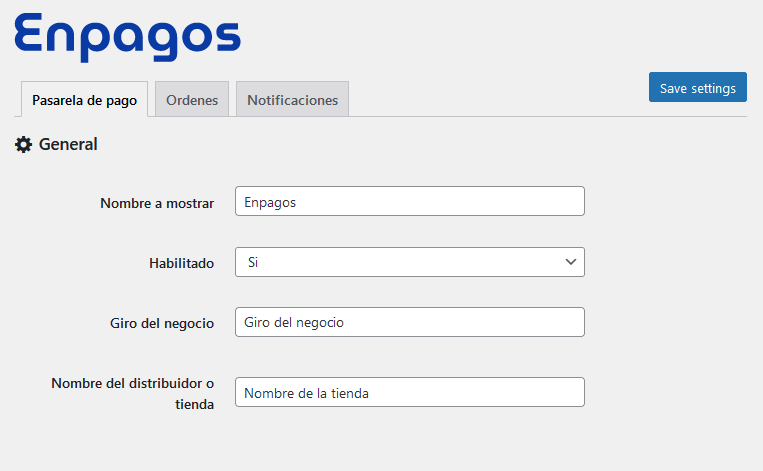
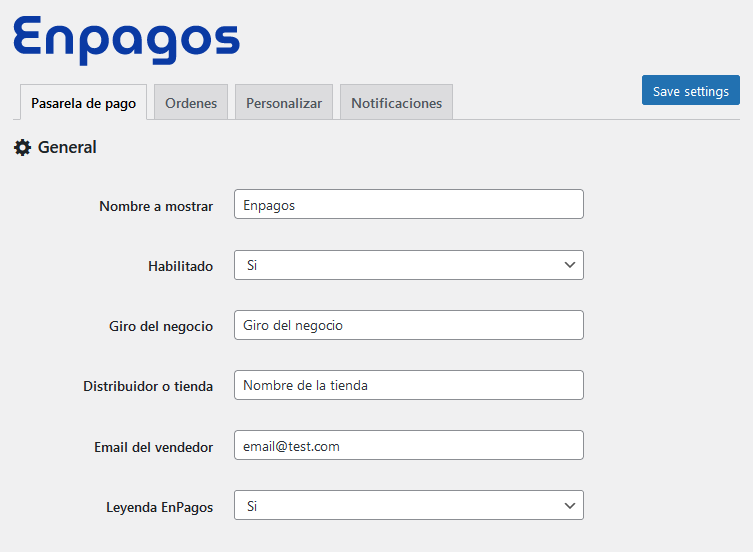
Update plugin configuration
- Add seller email
- Update documentation

diff --git a/src/includes/config-functions.php b/src/includes/config-functions.php
@@ -123,6 +123,16 @@ function dynamicore_config_page()
             ],
             [
                 'group' => 'general',
+                'label' => __('Email del vendedor', $dynamicore_plugin_name),
+                'name' => 'email_de_vendedor',
+                'type' => 'email',
+                'value' => get_option(
+                    "{$dynamicore_plugin_name}_email_de_vendedor",
+                    ''
+                ),
+            ],
+            [
+                'group' => 'general',
                 'label' => __('Leyenda EnPagos', $dynamicore_plugin_name),
                 'name' => 'show_after_price',
                 'type' => 'select',

diff --git a/src/includes/gateways/wc-gateway-dynamicore.php b/src/includes/gateways/wc-gateway-dynamicore.php
@@ -107,6 +107,10 @@ class WC_Gateway_Dynamicore extends WC_Payment_Gateway
                 "dynamicore_nombre_de_la_tienda",
                 ''
             );
+            $pii['email_de_vendedor'] = get_option(
+                "dynamicore_email_de_vendedor",
+                ''
+            );
             $pii['primer_nombre'] = $order->get_billing_first_name();
             $pii['primer_apellido'] = $order->get_billing_last_name();;
             $pii['telefono'] = $order->get_billing_phone();

diff --git a/src/plugin.php b/src/plugin.php
@@ -6,7 +6,7 @@
  * Description: Accept payments with Enpagos
  * Author: <a href="https://enpagos.mx/" target="_blank">Enpagos</a>
  * Author URI: https://enpagos.mx/
- * Version: 1.3.0
+ * Version: 1.3.1
  * Licence: MIT
  * Text Domain: dynamicore
  * Domain Path: /languages

diff --git a/README.md b/README.md
@@ -28,7 +28,8 @@
     - *Nombre a mostrar*: Etiqueta a mostrar en el checkout.
     - *Habilitado*: Habiliar Enpagos en el checkout.
     - *Giro del negocio*: Giro de la tienda/negocio.
-    - *Nombre del distribuidor o tienda*: Nombre distribuidor o tienda.
+    - *Distribuidor o tienda*: Nombre distribuidor o tienda.
+    - *Email del vendedor*: Email de contacto del vendedor.
 10. Pulsar sobre el botón **Save settings** para guardar la configuración.
 
 ![steep-004](/docs/img/enpagos-004.png)
@@ -38,9 +39,9 @@
 
 En el campo categorías se podra especificar la categoría en la cual se desea usar el plugin.
 
-> En caso de no especificar alguna, se visualizara en todas
+> En caso de no especificar alguna, se visualizara en todas.
 
-> Se pueden agregar varias separandolas por comas
+> Se pueden agregar varias separandolas por comas.
 
 ![categories-001](/docs/img/categories-001.png)
 
